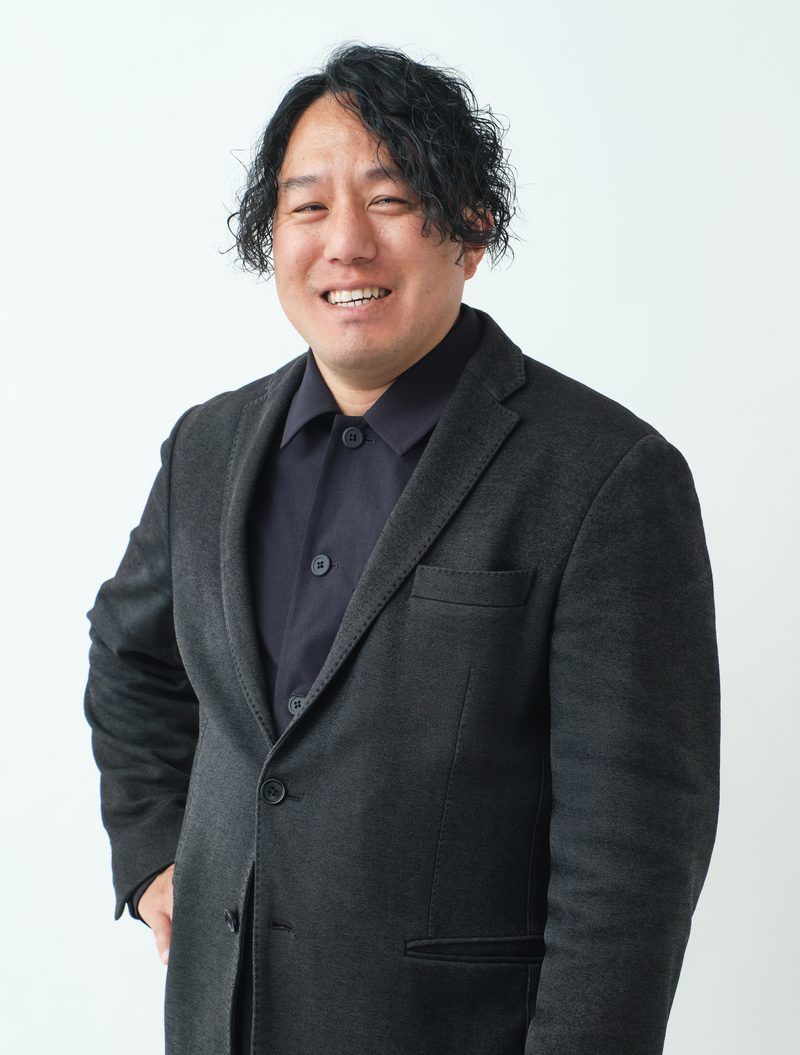
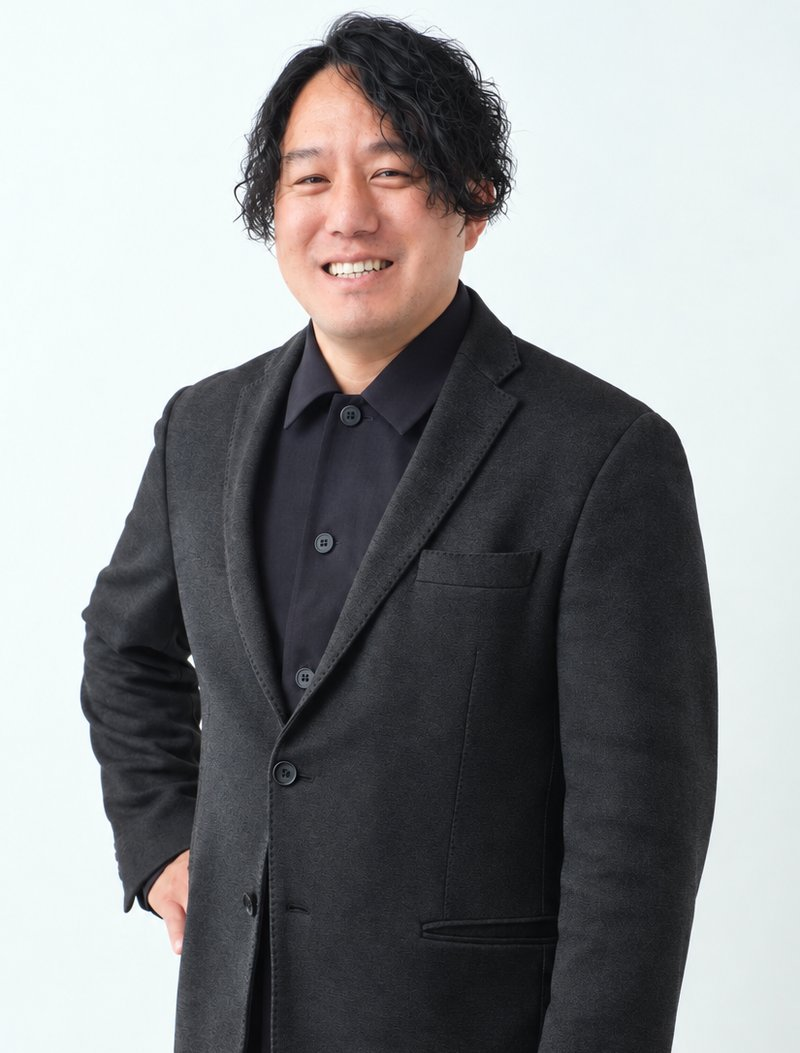
初回相談LP：Whoの写真を加工版に、締めの文を文ごとに改行
- Who（profile-kawabata）を FV と同じ方向で ChatGPT 加工したもの（元 2026_8_3_48）に差し替え
- 締めの文を「構いません。」「見てください。」（PCのみ）の後で改行、文節で折り返す

diff --git a/src/assets/styles/_consultation-page.scss b/src/assets/styles/_consultation-page.scss
@@ -675,6 +675,7 @@ $gray: #f4f6f9;
       line-height: 1.9;
       margin-left: auto;
       margin-right: auto;
+      word-break: auto-phrase;
     }
   }
 
